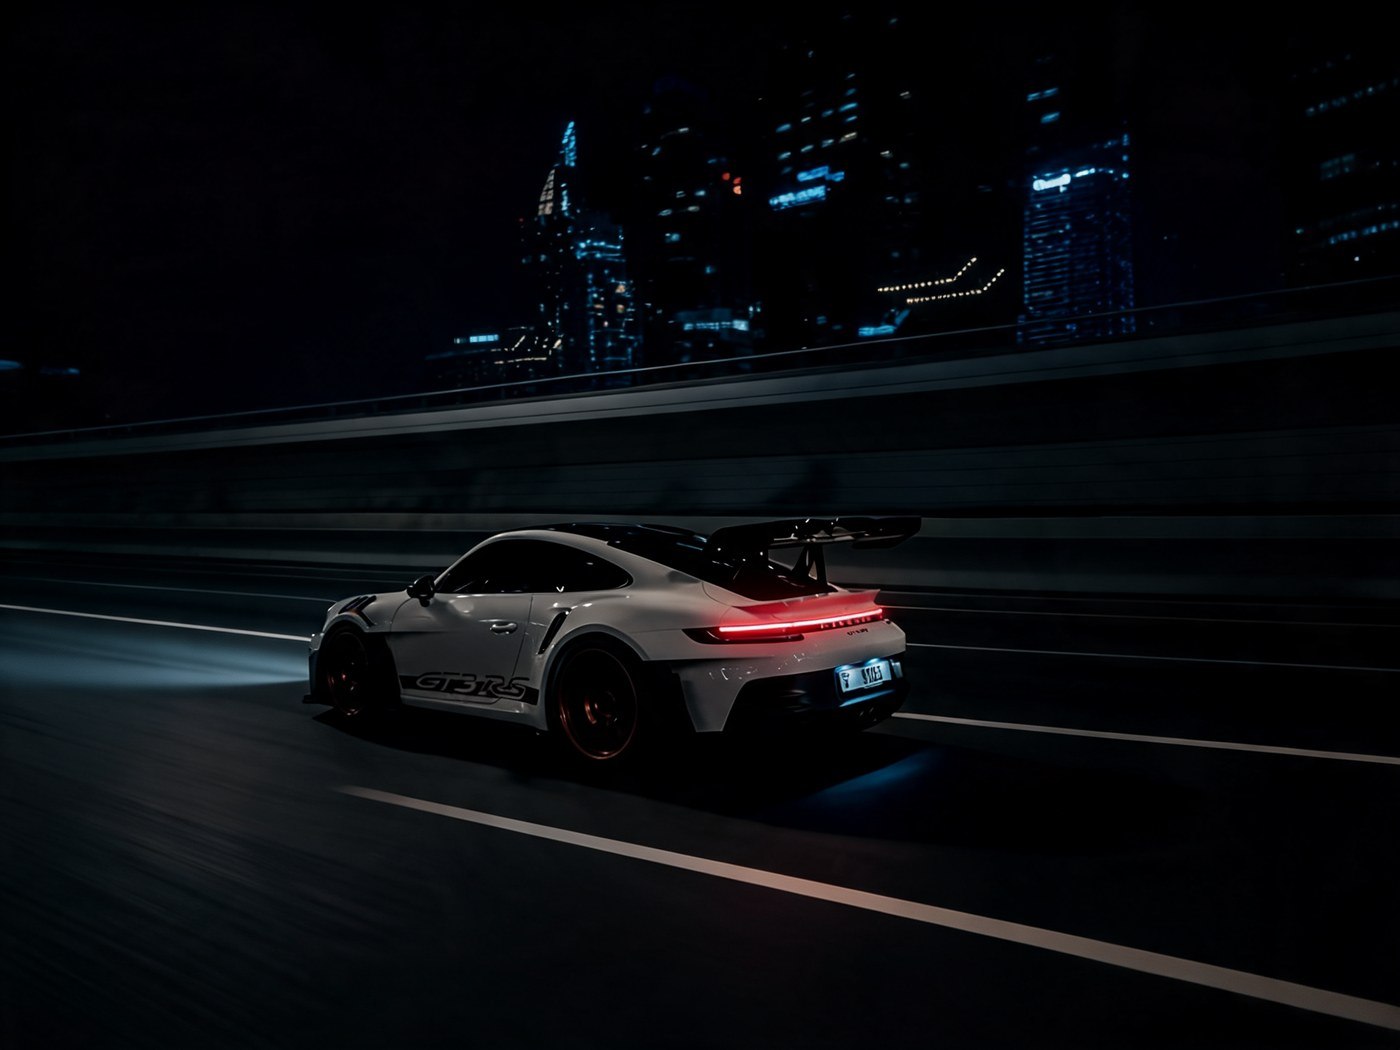
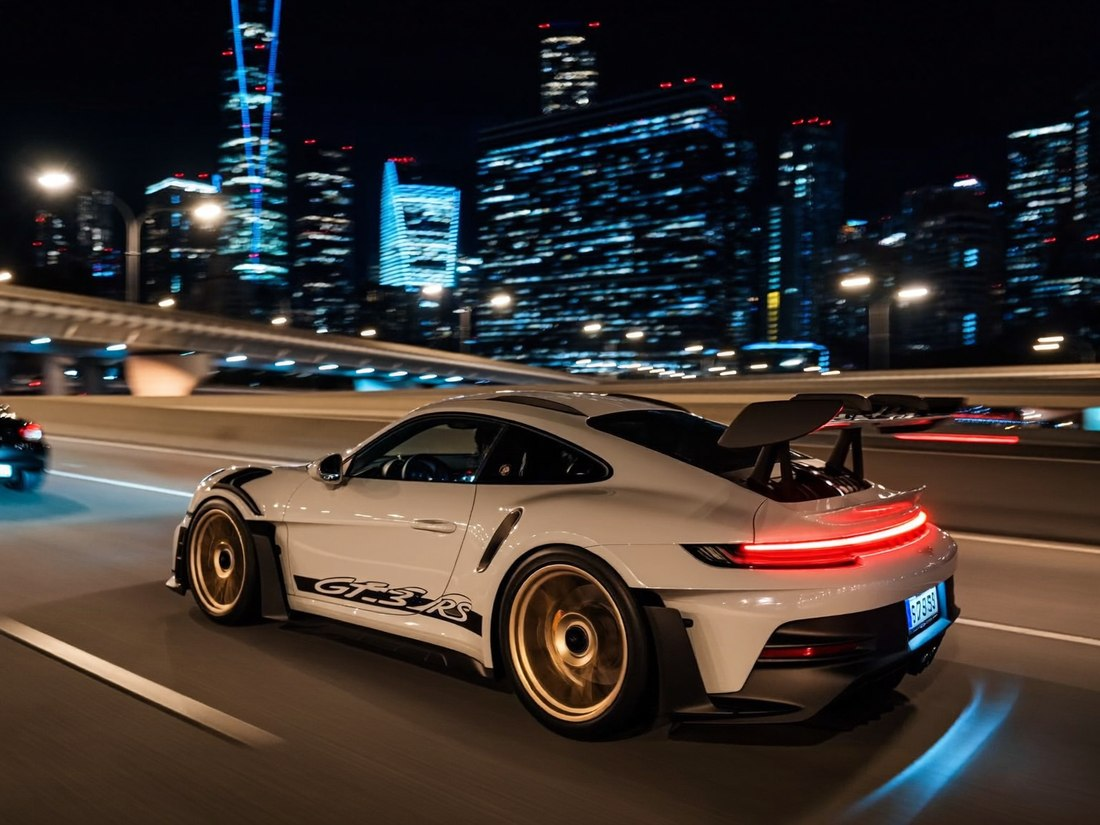
Swap in new hero photo, fix rotator across all devices, clean up hero stats
- New hero background from the uploaded porszi.png (optimized into
  desktop/mobile/OG variants, raw upload removed from the repo)
- Fix "Znalezione/Sprowadzone" staying static on some desktops: it was
  correctly falling back to a non-animated state under the OS-level
  "reduce motion" preference, but the site owner wants it always
  animating, so that fallback is removed for this decorative rotator
  (verified it now switches words even with reduced-motion emulated)
- "Bez kompromisów, bez ukrytych kosztów" is now white instead of red
- Remove the "Import aut z USA · Obsługa pod klucz" eyebrow line
- Give the hero stats their own dark glass panel instead of sitting
  directly on the photo — the new photo's wheel/spokes sat right
  behind that row and made the icons/numbers hard to read; redraw
  fixed, this was a contrast problem, not the icons themselves
- Shrink hero heading/lead sizing and section padding on mobile so it
  scales more comfortably instead of forcing a very tall hero

diff --git a/index.html b/index.html
@@ -268,11 +268,16 @@ h1,h2,h3,h4{ font-family:var(--font-head); font-weight:700; letter-spacing:-.01e
   padding-top:var(--space-9); padding-bottom:var(--space-9);
   background:#06070b;
 }
+@media (max-width:640px){
+  .hero{ padding-top:var(--space-7); padding-bottom:var(--space-7); }
+  .hero h1{ font-size:clamp(2rem, 1.5rem + 4vw, 2.6rem); }
+  .hero .lead{ font-size:.98rem; }
+}
 .hero-photo{
   position:absolute; inset:-2%; z-index:0; pointer-events:none;
   background-image:url("assets/hero-porsche.jpg");
-  background-size:cover; background-position:center 42%; background-repeat:no-repeat;
-  filter:blur(.8px) brightness(.8) saturate(1.1);
+  background-size:cover; background-position:center 40%; background-repeat:no-repeat;
+  filter:blur(1.2px) brightness(.74) saturate(1.1);
 }
 @media (max-width:640px){ .hero-photo{ background-image:url("assets/hero-porsche-mobile.jpg"); } }
 .hero-dim{
@@ -284,7 +289,7 @@ h1,h2,h3,h4{ font-family:var(--font-head); font-weight:700; letter-spacing:-.01e
     linear-gradient(180deg, rgba(5,6,9,.16) 0%, rgba(5,6,9,.14) 38%, rgba(5,6,9,.72) 100%);
 }
 @media (max-width:640px){
-  .hero-photo{ filter:blur(.6px) brightness(.76) saturate(1.1); background-position:center 38%; }
+  .hero-photo{ filter:blur(1px) brightness(.7) saturate(1.1); background-position:center 36%; }
   .hero-dim{ background:
     radial-gradient(560px 420px at 50% 30%, rgba(3,4,7,.72) 0%, rgba(3,4,7,.4) 50%, transparent 78%),
     radial-gradient(1200px 700px at 15% 115%, rgba(255,106,0,.14), transparent 60%),
@@ -295,7 +300,7 @@ h1,h2,h3,h4{ font-family:var(--font-head); font-weight:700; letter-spacing:-.01e
 
 .hero-inner{ position:relative; z-index:1; max-width:760px; margin-inline:auto; text-align:center; }
 .hero h1{ font-size:var(--fs-h1); margin-top:var(--space-3); }
-.hero h1 em{ font-style:normal; color:var(--red-bright); display:block; }
+.hero h1 em{ font-style:normal; color:#fff; display:block; }
 .hero .eyebrow{ color:var(--red-bright); }
 .hero .eyebrow::before{ background:var(--red-bright); }
 
@@ -309,23 +314,23 @@ h1,h2,h3,h4{ font-family:var(--font-head); font-weight:700; letter-spacing:-.01e
 .hero-rotator-item:nth-child(2){ color:var(--red-bright); }
 .hero-rotator-item.is-active{ opacity:1; transform:translateY(0); }
 .hero-rotator-item.is-leaving{ opacity:0; transform:translateY(-35%); }
-@media (prefers-reduced-motion: reduce){
-  .hero-rotator{ height:auto; }
-  .hero-rotator-item{ position:static; opacity:1; transform:none; transition:none; display:inline; }
-  .hero-rotator-item:nth-child(2)::before{ content:" / "; color:#fff; }
-}
 .hero .lead{ color:rgba(255,255,255,.72); }
 .hero .btn-outline{ color:#fff; border-color:rgba(255,255,255,.32); }
 .hero .btn-outline:hover{ border-color:var(--red-bright); color:var(--red-bright); }
 .hero-ctas{ display:flex; justify-content:center; gap:var(--space-4); margin-top:var(--space-7); flex-wrap:wrap; }
 
-.hero-stats{ position:relative; z-index:1; display:grid; grid-template-columns:repeat(4,1fr); gap:var(--space-5); margin-top:var(--space-9); padding-top:var(--space-6); border-top:1px solid rgba(255,255,255,.15); }
+.hero-stats{
+  position:relative; z-index:1; display:grid; grid-template-columns:repeat(4,1fr); gap:var(--space-5);
+  margin-top:var(--space-9); padding:var(--space-6) var(--space-5);
+  background:rgba(6,7,12,.5); backdrop-filter:blur(12px); -webkit-backdrop-filter:blur(12px);
+  border:1px solid rgba(255,255,255,.12); border-radius:var(--radius-lg);
+}
 .hero-stat{ display:flex; flex-direction:column; align-items:center; }
 .hero-stat-icon{ display:flex; align-items:center; justify-content:center; width:44px; height:44px; margin-bottom:var(--space-3); border-radius:50%; background:rgba(255,255,255,.08); border:1px solid rgba(255,255,255,.18); color:var(--red-bright); }
 .hero-stat-icon svg{ width:21px; height:21px; }
 .hero-stat b{ display:block; font-family:var(--font-head); font-weight:800; font-size:clamp(1.9rem, 1.6rem + 1vw, 2.5rem); line-height:1.05; color:#fff; font-variant-numeric:tabular-nums; }
-.hero-stat span{ display:block; font-size:.8rem; color:rgba(255,255,255,.5); margin-top:2px; }
-@media (max-width:720px){ .hero-stats{ grid-template-columns:repeat(2,1fr); row-gap:var(--space-6); } }
+.hero-stat span{ display:block; font-size:.8rem; color:rgba(255,255,255,.55); margin-top:2px; }
+@media (max-width:720px){ .hero-stats{ grid-template-columns:repeat(2,1fr); row-gap:var(--space-6); padding:var(--space-5) var(--space-4); } }
 
 /* Trust strip */
 .trust-strip{ background:var(--paper-alt); border-block:1px solid var(--border-soft); }
@@ -484,7 +489,6 @@ h1,h2,h3,h4{ font-family:var(--font-head); font-weight:700; letter-spacing:-.01e
     <div class="hero-dim" aria-hidden="true"></div>
 
     <div class="container hero-inner">
-      <p class="eyebrow">Import aut z USA · Obsługa pod klucz</p>
       <h1>Twoje auto z&nbsp;USA.
         <span class="hero-rotator" aria-hidden="true">
           <span class="hero-rotator-item is-active">Znalezione</span>
@@ -1001,7 +1005,7 @@ h1,h2,h3,h4{ font-family:var(--font-head); font-weight:700; letter-spacing:-.01e
   if (yearEl) yearEl.textContent = String(new Date().getFullYear());
 
   var rotator = document.querySelector(".hero-rotator");
-  if (rotator && !prefersReducedMotion) {
+  if (rotator) {
     var rotatorItems = rotator.querySelectorAll(".hero-rotator-item");
     if (rotatorItems.length > 1) {
       var activeIndex = 0;
